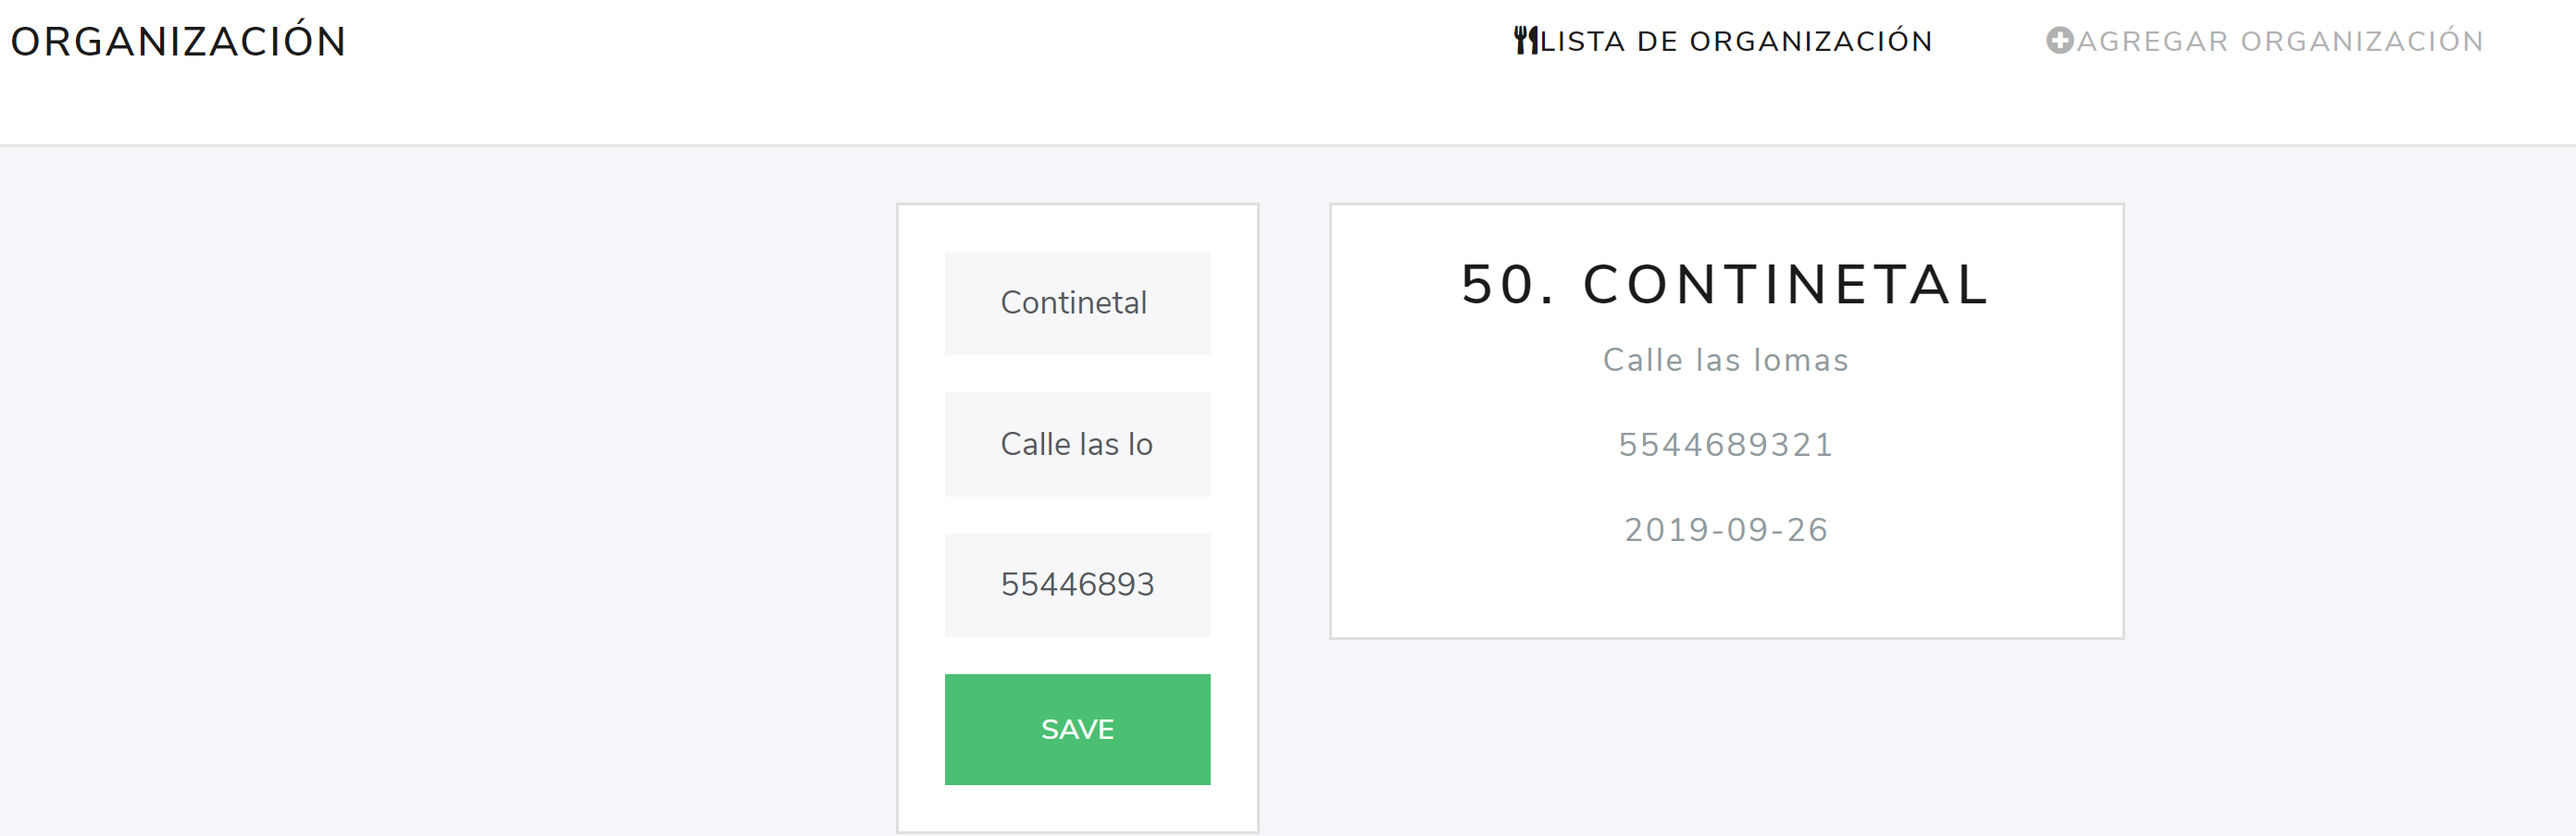
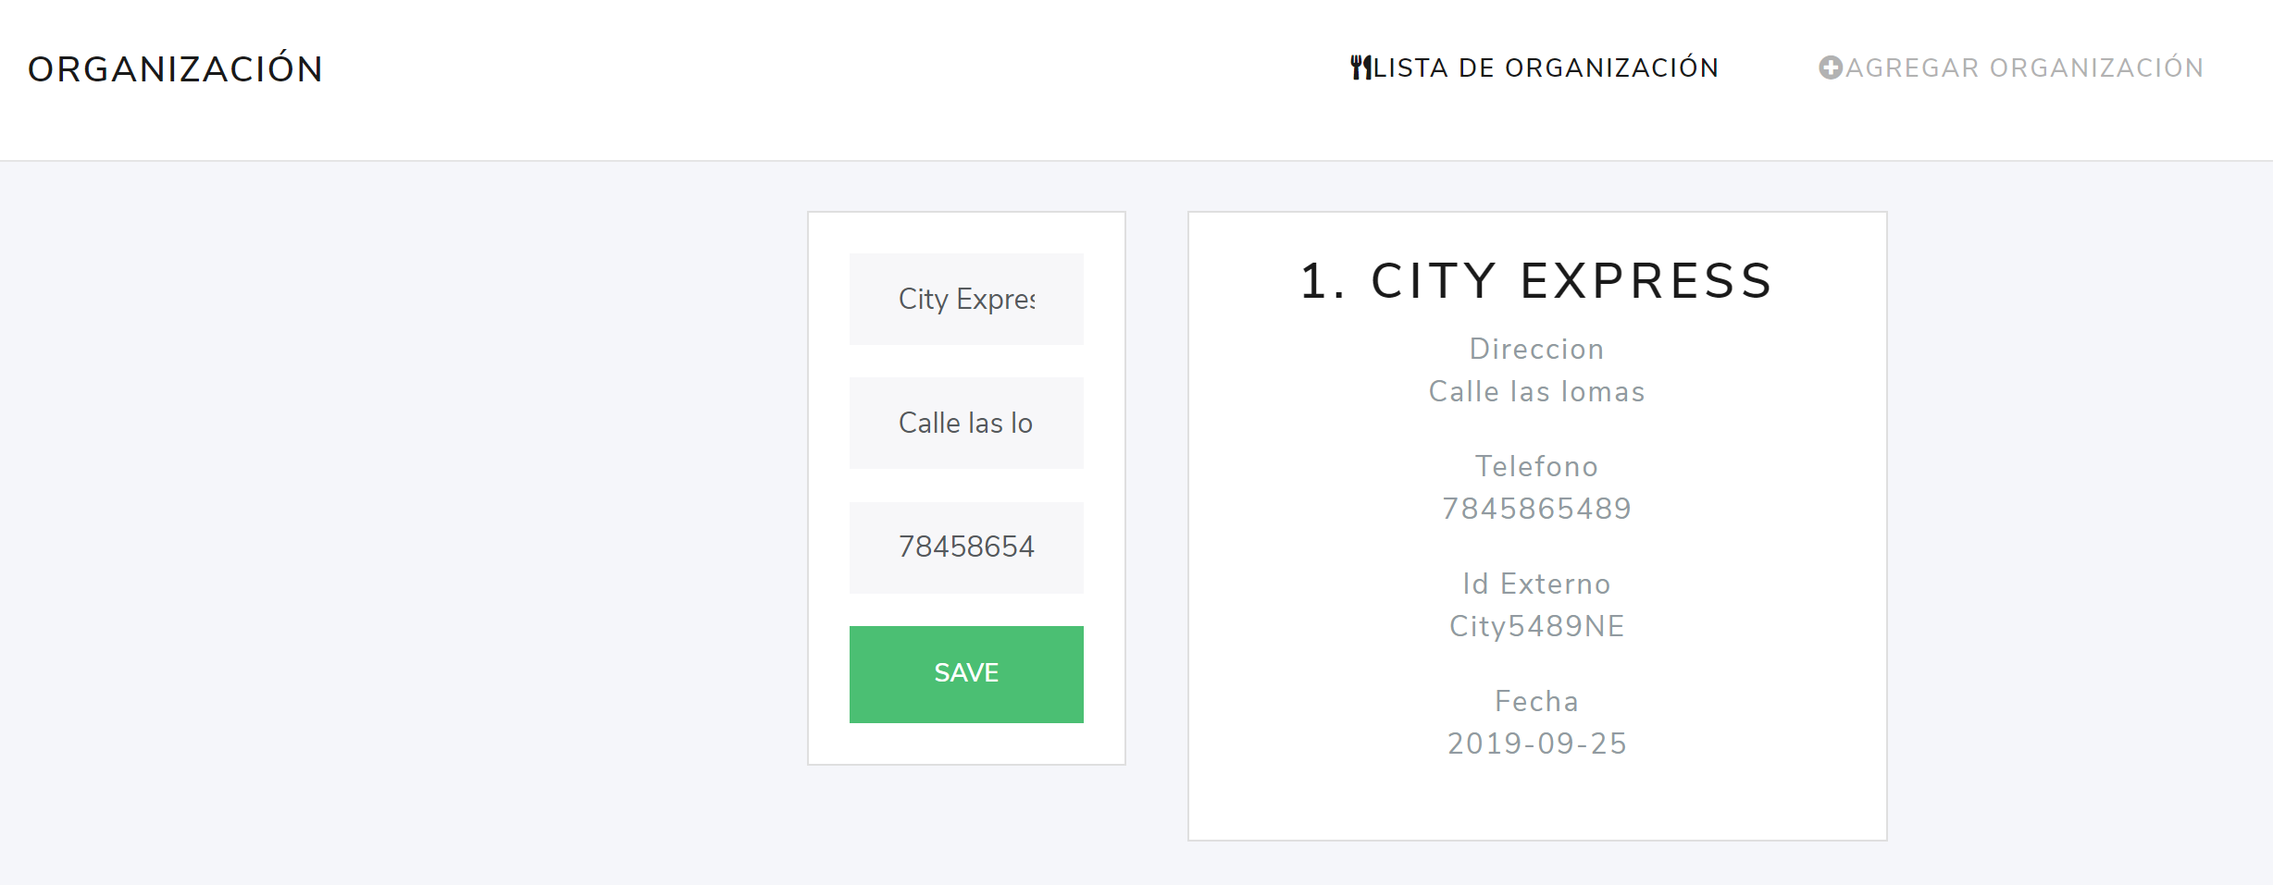
actualiza.

diff --git a/MyReserva/client/src/app/components/compania-form/compania-form.component.html b/MyReserva/client/src/app/components/compania-form/compania-form.component.html
@@ -28,8 +28,9 @@ Save
 <div class="col-md-4">
 <div class="card card-body text-center">
 <h3>{{compania.id}}. {{compania.nombre}}</h3>
-<p>{{compania.direccion}}</p>
-<p>{{compania.telefono}}</p>
-<p>{{compania.created_at | date: 'yyyy-MM-dd'}}</p>
+Direccion <p>{{compania.direccion}}</p>
+Telefono <p>{{compania.telefono}}</p>
+Id Externo<p>{{compania.idExterno}}</p>
+Fecha<p>{{compania.created_at | date: 'yyyy-MM-dd'}}</p>
 </div>
 </div>

diff --git a/MyReserva/client/src/app/components/compania-list/compania-list.component.html b/MyReserva/client/src/app/components/compania-list/compania-list.component.html
@@ -15,7 +15,7 @@
     <b>   Id Externo:</b> <p>{{compania.idExterno}}</p>
 
        <a [routerLink]="['/companias/edit',compania.id]" class="btn btn-info btn-block" >
-       EDIT GAME
+       EDIT COMPAÑIA
        </a>
        </div>
        </div></div>
